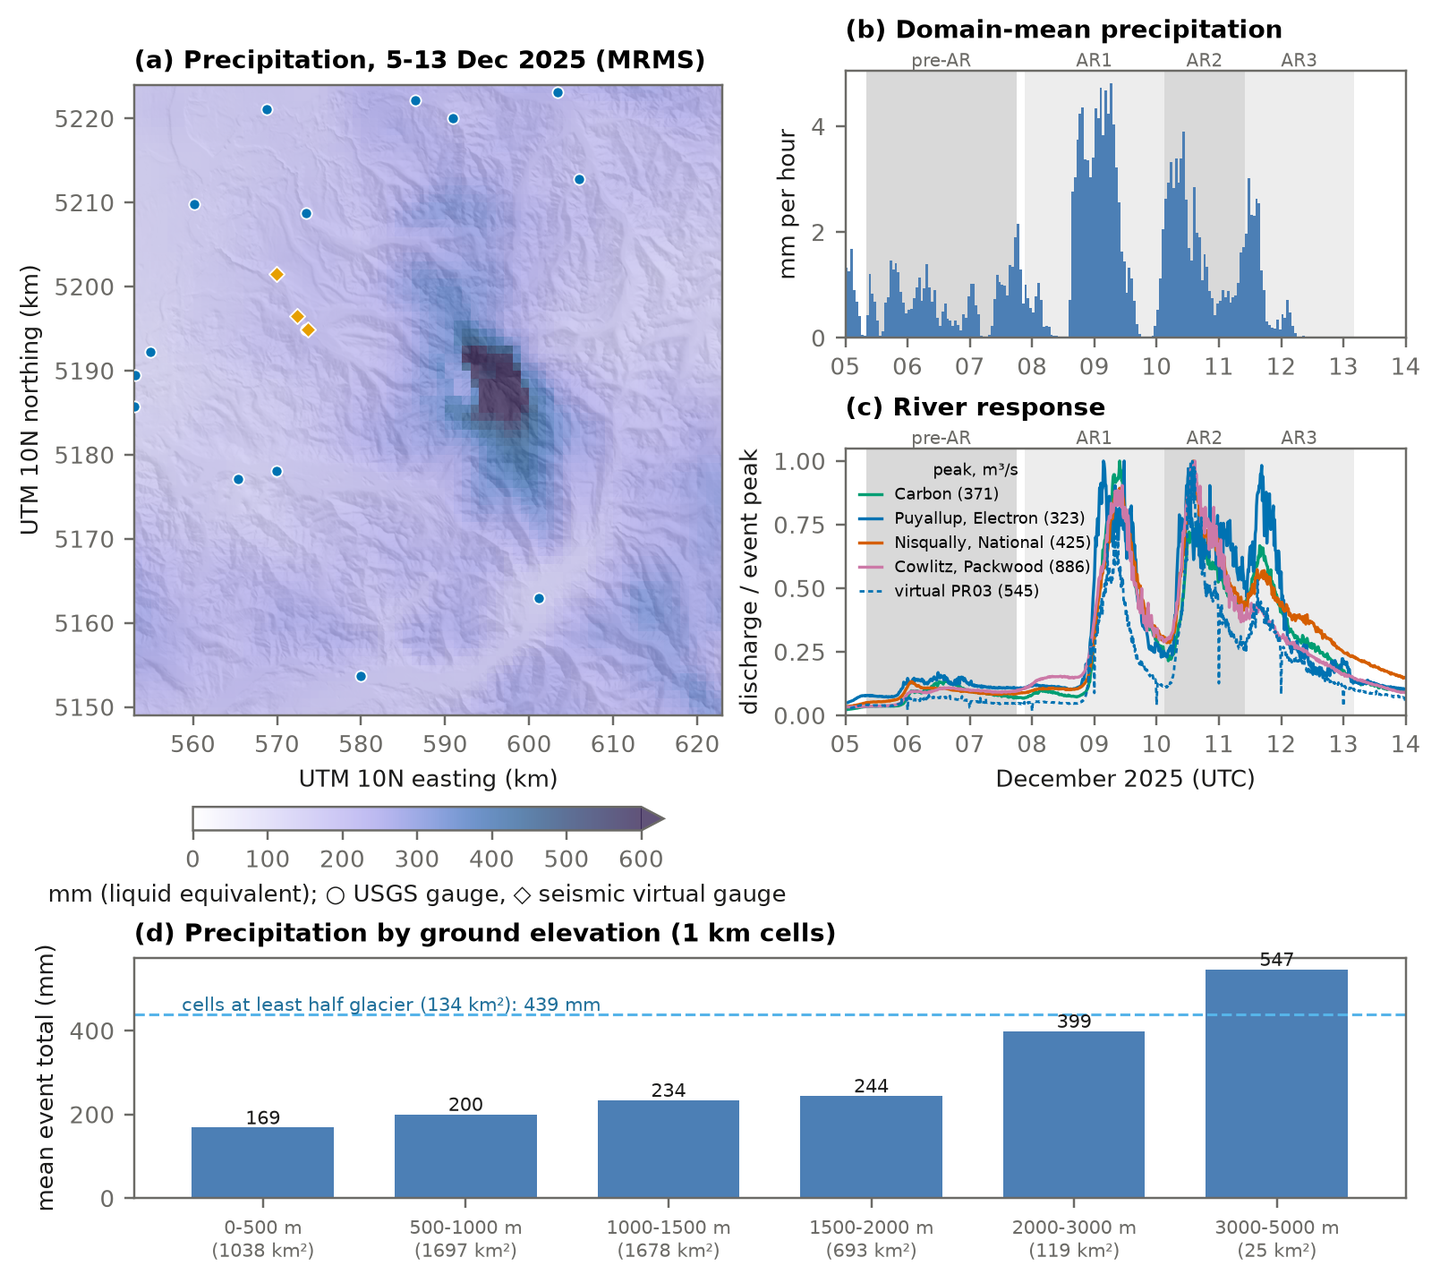
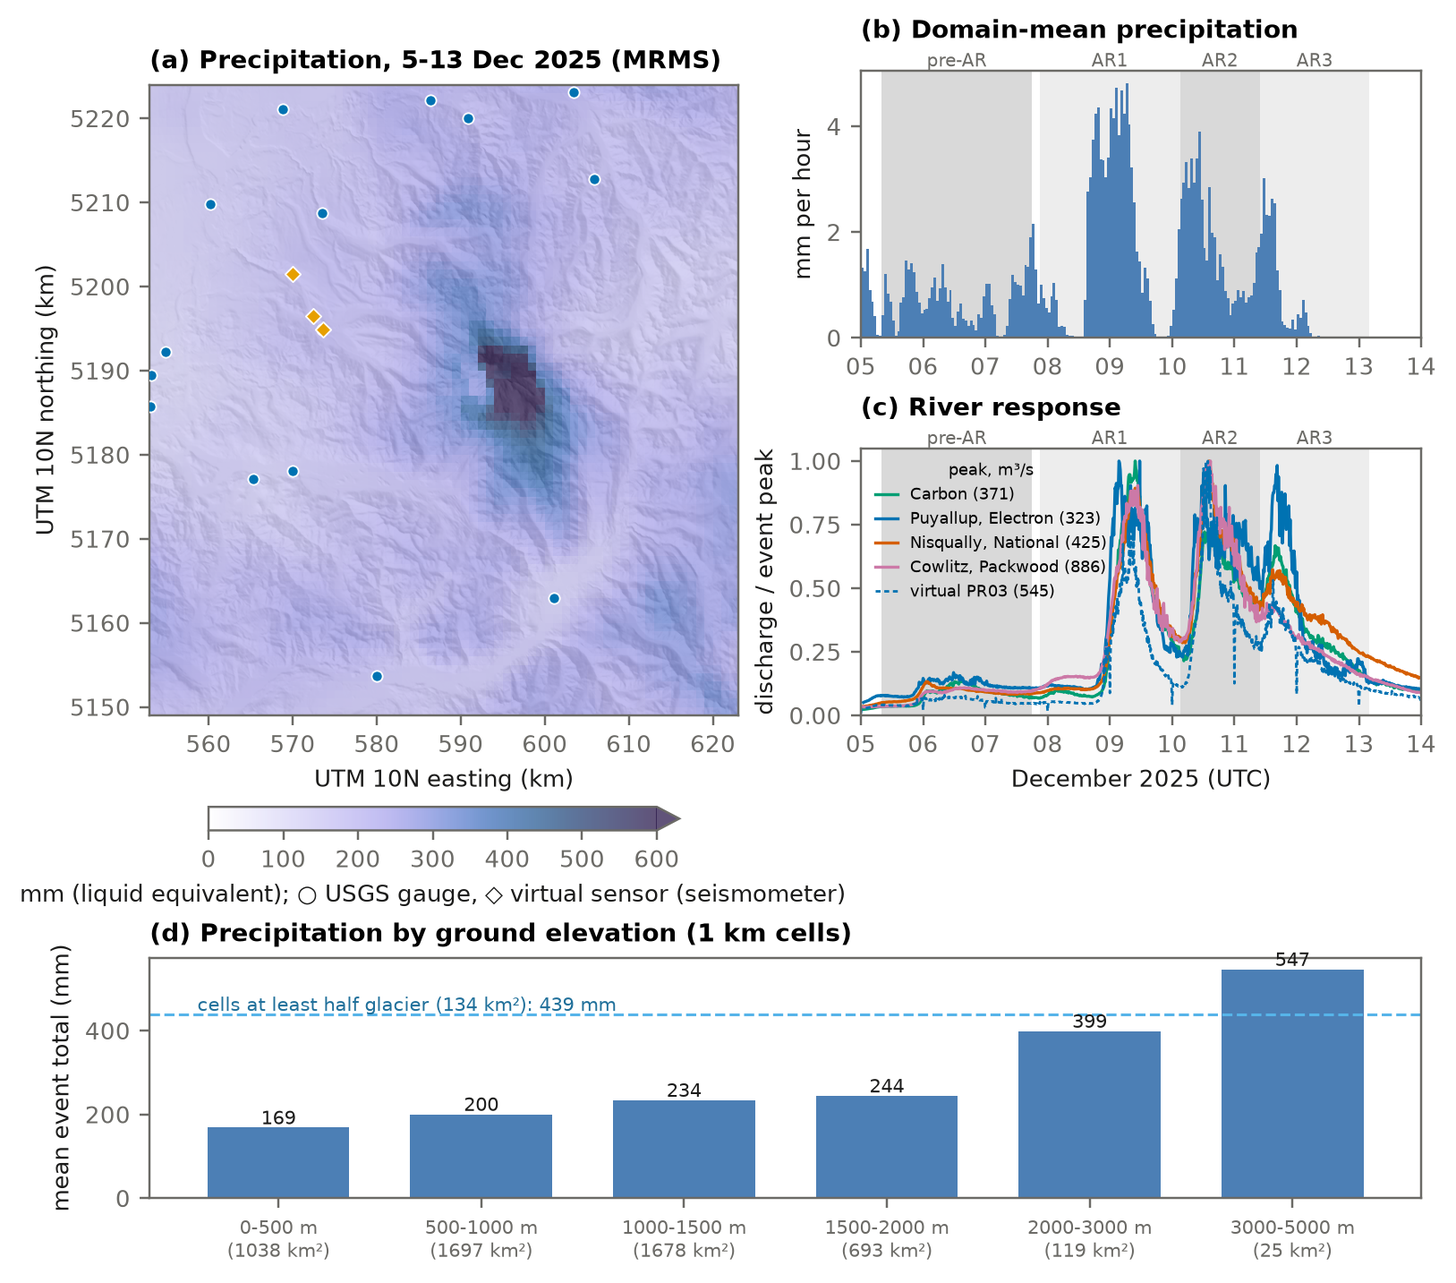
Virtual sensors: registry, viewer labels, paper term; rain drops scale with intensity; Copilot review (PR #26)
- configs/virtual_sensors.yaml + rainier3d.sensors.virtual: instruments repurposed to estimate what they were
  not designed to measure (designed for, estimates, method, skill, source, used by); CC.PR02, CC.PR03, CC.STYX
  as river gauges. S29 stops on an unregistered one; the entry goes to model/sensors.json ("virtual") and to
  each virtual site of event.json; tag_virtual_sensors(atlas) updates an existing bundle
- viewer: "V" badge on the marker, tooltip line, a Virtual sensor block on the station card, a legend row;
  Storms panel and paper say "virtual sensors" (term defined in Sect. events), fig21 legend
- rain: point-sprite streaks whose width and length grow with the MRMS rate (drizzle to 12 mm/h), sized by
  distance; docs/events.md notes drop size from seismic records as a future virtual sensor
- Copilot: colour-stretch percentiles from a byte histogram (same windows on the current bundle); the rain uses
  its own wall-clock time step; the Storms panel starts at the wettest frame or frame 0 (wettestFrame)
- tests: virtual-sensor registry, stretch vs np.percentile, wettestFrame, e2e (u)

diff --git a/web/viewer/site/src/scene/RainEvent.js b/web/viewer/site/src/scene/RainEvent.js
@@ -3,24 +3,38 @@ import * as THREE from "three";
 // One event in the scene: falling rain whose density follows the hourly MRMS rain under each drop, and a bar at
 // every river gauge whose height follows its discharge (as a fraction of its event peak). The rain frame is a
 // small R8 texture on the overview lon/lat box, the same box as the terrain, so uv = scene (x, z) / box.
+// Each drop is a point sprite drawn as a vertical streak. Its presence follows the rate under it (a drop shows when
+// its random threshold is below rate / uFull), and its width and length grow with the rate: light rain is fine
+// drizzle, an atmospheric-river hour is heavy streaks. The size is scaled by distance so near drops look larger.
+// (Rain also shakes the ground; drop sizes from seismic records of rainfall would feed uThick directly.)
 const RAIN_VERT = `
-  attribute vec2 seed; attribute float ground; attribute float tip;
-  uniform sampler2D uRain; uniform vec4 uBox; uniform float uTime, uFull, uScale, uFlat, uTop, uLen;
-  varying float vA, vTip;
+  attribute vec2 seed; attribute float ground;
+  uniform sampler2D uRain; uniform vec4 uBox; uniform float uTime, uFull, uScale, uFlat, uTop, uPx;
+  varying float vA, vThick;
   void main() {
     vec2 uv = (position.xz - uBox.xy) / uBox.zw;
     float q = texture2D(uRain, uv).r * 255.0;
     float mm = q > 254.5 ? 0.0 : q * uScale;
     float on = step(seed.y, clamp(mm / uFull, 0.0, 1.0)) * step(0.05, mm);
     float fall = fract(seed.x - uTime * 0.35);                    // 0 at the ground, 1 at the top of the column
-    float y = ground + uTop * fall + tip * uLen;
-    vec3 p = vec3(position.x, y * (1.0 - uFlat), position.z);
-    vA = on * smoothstep(0.0, 0.08, fall); vTip = tip;
-    gl_Position = on < 0.5 ? vec4(2.0, 2.0, 2.0, 1.0) : projectionMatrix * modelViewMatrix * vec4(p, 1.0);
+    vec3 p = vec3(position.x, (ground + uTop * fall) * (1.0 - uFlat), position.z);
+    vec4 mv = modelViewMatrix * vec4(p, 1.0);
+    vThick = clamp(mm / 12.0, 0.0, 1.0);                          // 0: drizzle, 1: 12 mm/h and more
+    vA = on * smoothstep(0.0, 0.08, fall);
+    gl_Position = on < 0.5 ? vec4(2.0, 2.0, 2.0, 1.0) : projectionMatrix * mv;
+    gl_PointSize = clamp(uPx * mix(3.0, 11.0, vThick) / max(-mv.z, 1.0), 2.0, 22.0);
   }`;
 const RAIN_FRAG = `
-  varying float vA, vTip;
-  void main() { gl_FragColor = vec4(0.78, 0.86, 0.96, vA * mix(0.75, 0.0, vTip)); }`;
+  varying float vA, vThick;
+  void main() {
+    vec2 c = gl_PointCoord - 0.5;                                 // y grows downward in the sprite
+    float w = mix(0.05, 0.16, vThick);                            // half-width of the streak
+    float body = 1.0 - smoothstep(w * 0.6, w, abs(c.x));
+    float len = 1.0 - smoothstep(0.35, 0.5, abs(c.y));
+    float a = vA * body * len * mix(0.35, 1.0, c.y + 0.5) * mix(0.6, 0.95, vThick);   // brighter at the head
+    if (a < 0.02) discard;
+    gl_FragColor = vec4(0.80, 0.88, 0.97, a);
+  }`;
 
 export class RainEvent {
   constructor(rs, event, { drops = 24000 } = {}) {
@@ -31,23 +45,21 @@ export class RainEvent {
     this.U = {
       uRain: { value: this.tex }, uBox: { value: new THREE.Vector4(m.x0, m.z0, m.cols * m.dx, m.rows * m.dz) },
       uTime: { value: 0 }, uFull: { value: 8.0 }, uScale: { value: this.doc.rain.scale }, uFlat: rs.U.flat,
-      uTop: { value: 2.5 }, uLen: { value: 0.12 },
+      uTop: { value: 2.5 }, uPx: { value: 40 * Math.min(devicePixelRatio || 1, 2) },
     };
-    // drops at random places on the terrain box; each is a short segment (tip 0 at the bottom, 1 at the top)
-    const pos = [], seed = [], ground = [], tip = [];
+    // drops at random places on the terrain box
+    const pos = [], seed = [], ground = [];
     let rnd = 12345; const rand = () => ((rnd = (rnd * 1103515245 + 12345) % 2147483648) / 2147483648);
     for (let i = 0; i < drops; i++) {
       const x = m.x0 + rand() * m.cols * m.dx, z = m.z0 + rand() * m.rows * m.dz, g = rs.elevKm(x, z);
       if (g == null) continue;
-      const s0 = rand(), s1 = rand();
-      for (const t of [0, 1]) { pos.push(x, 0, z); seed.push(s0, s1); ground.push(g); tip.push(t); }
+      pos.push(x, 0, z); seed.push(rand(), rand()); ground.push(g);
     }
     const geo = new THREE.BufferGeometry();
     geo.setAttribute("position", new THREE.Float32BufferAttribute(pos, 3));
     geo.setAttribute("seed", new THREE.Float32BufferAttribute(seed, 2));
     geo.setAttribute("ground", new THREE.Float32BufferAttribute(ground, 1));
-    geo.setAttribute("tip", new THREE.Float32BufferAttribute(tip, 1));
-    this.rain = new THREE.LineSegments(geo, new THREE.ShaderMaterial({
+    this.rain = new THREE.Points(geo, new THREE.ShaderMaterial({
       uniforms: this.U, vertexShader: RAIN_VERT, fragmentShader: RAIN_FRAG, transparent: true, depthWrite: false,
     }));
     this.rain.frustumCulled = false; this.rain.renderOrder = 5; this.rain.visible = false;
@@ -86,7 +98,11 @@ export class RainEvent {
 
   hide() { this.rain.visible = false; this.bars.visible = false; }
 
+  // dt (s) is measured here unless given, so the rain falls at the same speed at any frame rate
   update(dt) {
+    const now = performance.now();
+    if (dt == null) dt = this._last == null ? 0 : Math.min((now - this._last) / 1000, 0.1);
+    this._last = now;
     this.U.uTime.value += dt;
     const flat = 1 - this.rs.U.flat.value;
     for (const b of this.bars.children) b.position.y = (this.rs.elevKm(b.position.x, b.position.z) ?? 0) * flat;

diff --git a/web/viewer/site/src/App.jsx b/web/viewer/site/src/App.jsx
@@ -78,7 +78,8 @@ function Atlas({ bundle, onError }) {
         if (!inv || cancelled) return;
         const extras = extraSites(inv, bundle.stations);
         s.sensors = new SensorPoints(s, extras, inv.das); s.sensors.setFilter(DEFAULT_FILTER);
-        setSens({ all: [...bundle.stations.sites.filter(x => x.onMap).map(classifyMarker), ...extras], das: inv.das, points: s.sensors, notes: inv.notes ?? {} });
+        setSens({ all: [...bundle.stations.sites.filter(x => x.onMap).map(classifyMarker), ...extras], das: inv.das, points: s.sensors, notes: inv.notes ?? {}, virtual: inv.virtual ?? {} });
+        layer.setVirtual(inv.virtual ?? {});
       });
       if (bundle.model) loadMassEvents(bundle.base).then(doc => {
         if (!doc || cancelled) return;
@@ -103,7 +104,7 @@ function Atlas({ bundle, onError }) {
       s.onFrame = () => {
         layer.update();
         s.volume?.update();
-        s.event?.update(1 / 60);
+        s.event?.update();
         s.layers?.update((x, y, z) => s.project(x, y, z), s.camera.position.toArray(), (x, z) => s.elevKm(x, z) ?? -1e9);
         if (n++ % 15 === 0) setDetail(detailText(s.frame, bundle.summit));
       };
@@ -124,7 +125,7 @@ function Atlas({ bundle, onError }) {
     setSfilter(f); sens?.points.setFilter(f);
     layerRef.current?.setFilter(x => passes(classifyMarker(x), f));
   };
-  const sensorLegend = sens && { filter: sfilter, onFilter: applyFilter, counts: kindCounts(sens.all, sfilter), das: sens.das };
+  const sensorLegend = sens && { filter: sfilter, onFilter: applyFilter, counts: kindCounts(sens.all, sfilter), das: sens.das, virtual: sens.virtual };
   const modelLayer = modelKey ? bundle.model.byKey[modelKey] : null;
   const flowLayer = bundle.model?.byKey.mass_flows;
   const showFlows = on => {   // the flow deposits are a draped model layer: the same slot as the layer menu
@@ -174,13 +175,13 @@ function Atlas({ bundle, onError }) {
           ]} />
           <GoTo majors={bundle.majors} active={active} onPlace={k => { setActive(k); scene.flyTo(k); }} onSite={s => openSite(s, scene)} />
           {modelLayer?.values && <ModelReadout scene={scene} model={bundle.model} layer={modelLayer} box={bundle.overviewBox} />}
-          <Tooltip hover={hover} notes={sens?.notes} />
+          <Tooltip hover={hover} notes={sens?.notes} virtual={sens?.virtual} />
           {sens && <SensorTip scene={scene} points={sens.points} />}
           {mass && <MassTip scene={scene} points={mass.points} doc={mass.doc} />}
           <MobileDock sheet={sheet} onSheet={setSheet} has={{ model: !!bundle.model, quakes: !!(bundle.quakes || reloc), mass: !!massLegend, events: !!event }} />
           <NavPad scene={scene} onHelp={openHelp} />
           <HelpHint onHelp={openHelp} hidden={helpOpened} />
-          {site && <StationPanel site={site} bundle={bundle} notes={sens?.notes} onFly={s => scene.flyToSite(s)}
+          {site && <StationPanel site={site} bundle={bundle} notes={sens?.notes} virtual={sens?.virtual} onFly={s => scene.flyToSite(s)}
             onClose={() => { setSiteId(null); layerRef.current?.setSelected(null); }} />}
         </>
       )}

diff --git a/web/viewer/site/src/ui/EventsPanel.jsx b/web/viewer/site/src/ui/EventsPanel.jsx
@@ -1,5 +1,5 @@
 import { useEffect, useMemo, useState } from "react";
-import { frameTime, timeLabels, windowAt } from "../data/events.js";
+import { frameTime, timeLabels, wettestFrame, windowAt } from "../data/events.js";
 import "./ui.css";
 
 const W = 232, H = 46;
@@ -30,10 +30,10 @@ function Series({ values, k, kind, windows, doc, label, unit }) {
 // `active`: its dock panel or phone sheet is open; panels stay mounted while closed, so the rain and bars follow it.
 export default function EventsPanel({ event, active = true }) {
   const { doc } = event;
-  const [k, setK] = useState(() => doc.rain.domainMean.indexOf(Math.max(...doc.rain.domainMean.filter(v => v != null))));
+  const [k, setK] = useState(() => Math.min(wettestFrame(doc.rain.domainMean), event.count - 1));
   const [play, setPlay] = useState(false), [rain, setRain] = useState(true), [gauges, setGauges] = useState(true);
   const sites = useMemo(() => [...doc.gauges, ...doc.virtual].sort((a, b) => b.peak.q - a.peak.q), [doc]);
-  const [sel, setSel] = useState(() => (doc.gauges.find(g => g.onMap) ?? sites[0])?.id);
+  const [sel, setSel] = useState(() => (doc.gauges.find(g => g.onMap) ?? sites[0])?.id ?? null);
   useEffect(() => { event.setFrame(k); }, [event, k]);
   useEffect(() => {
     if (active) event.show({ rain, gauges }); else event.hide();
@@ -66,14 +66,14 @@ export default function EventsPanel({ event, active = true }) {
       <div className="ev-sites" role="list">
         {sites.map(s => (
           <button key={s.id} role="listitem" className={`ev-site${s.id === sel ? " on" : ""}`} onClick={() => setSel(s.id)}
-            title={s.kind === "virtual" ? `seismic virtual gauge, NSE log Q ${s.nse}` : `USGS ${s.id}${s.recordEnds ? `, record ends ${s.recordEnds}` : ""}${s.onMap ? "" : ", off the map"}`}>
+            title={s.kind === "virtual" ? `virtual sensor: seismometer read as a river gauge, NSE log Q ${s.nse}` : `USGS ${s.id}${s.recordEnds ? `, record ends ${s.recordEnds}` : ""}${s.onMap ? "" : ", off the map"}`}>
             <span className={`ev-dot ${s.kind}`} /><span className="ev-name">{s.name}{s.recordEnds ? " †" : ""}</span>
             <span className="mono">{s.q[k] == null ? "–" : Math.round(s.q[k])}</span><span className="mono ev-peak">{Math.round(s.peak.q)}</span>
           </button>
         ))}
       </div>
       <div className="msrc">
-        m³/s now and at the event peak; † the record stops during the event. Blue: USGS gauges; amber: seismic virtual gauges (rating inverted from river
+        m³/s now and at the event peak; † the record stops during the event. Blue: USGS gauges; amber: virtual sensors, seismometers repurposed as river gauges (rating inverted from river
         noise, seis-hydro-2-sed). Precipitation is the MRMS liquid equivalent: rain and snow are not separated. Shaded: the pre-AR storm and three atmospheric-river pulses. {doc.note}{" "}
         Sources: {Object.entries(doc.sources).map(([key, s], i) => <span key={key}>{i ? ", " : ""}<a href={s.link} target="_blank" rel="noreferrer">{key}</a></span>)}.
       </div>

diff --git a/web/viewer/site/src/ui/StationPanel.jsx b/web/viewer/site/src/ui/StationPanel.jsx
@@ -21,7 +21,7 @@ export function links(st, now = new Date()) {
   return out;
 }
 
-export default function StationPanel({ site, bundle, onClose, onFly, notes = {} }) {
+export default function StationPanel({ site, bundle, onClose, onFly, notes = {}, virtual = {} }) {
   return (
     <aside className="panel station-panel" id="panel" aria-label={`${site.name} station details`}>
       <div className="sp-head">
@@ -40,6 +40,17 @@ export default function StationPanel({ site, bundle, onClose, onFly, notes = {} 
           <div className="sp-meta">Running since {st.since.slice(0, 4)} · {fmtElev(st.elev)}{st.depth > 1 ? ` · sensor ${Math.round(st.depth)} m below the surface` : ""}</div>
           <ul className="sp-inst">{st.instruments.map(i => <li key={i.channels.join()}>{instrumentLine(i)}</li>)}</ul>
           {notes[st.code] && <p className="sp-note sp-stnote">{notes[st.code]}</p>}
+          {(virtual[st.code] ?? []).map((u, i) => (
+            <div key={i} className="sp-virtual" aria-label="Virtual sensor">
+              <div className="vhead"><span className="vtag">Virtual sensor</span> repurposed to estimate {u.estimates}</div>
+              <dl>
+                <dt>Designed for</dt><dd>{u.designed_for}</dd>
+                <dt>Method</dt><dd>{u.method}</dd>
+                <dt>Skill</dt><dd>{u.skill}</dd>
+                <dt>Used by</dt><dd>{u.used_by} · source {u.source}</dd>
+              </dl>
+            </div>
+          ))}
           <ul className="sp-links">{links(st).map(l => <li key={l.label}><a href={l.url} target="_blank" rel="noreferrer">{l.label}</a></li>)}</ul>
         </section>
       ))}

diff --git a/web/viewer/site/src/ui/SensorFilter.jsx b/web/viewer/site/src/ui/SensorFilter.jsx
@@ -5,7 +5,7 @@ import "./ui.css";
 // The sensor legend doubles as the filter: networks (permanent / temporary), past deployments, and one toggle per
 // instrument kind with its count under the current network filter. Clicking a kind shows only that kind; clicking
 // it again shows all.
-export default function SensorFilter({ filter, onFilter, counts, das }) {
+export default function SensorFilter({ filter, onFilter, counts, das, virtual = {} }) {
   const set = patch => onFilter({ ...filter, ...patch });
   const only = key => set({ kinds: filter.kinds?.size === 1 && filter.kinds.has(key) ? null : new Set([key]) });
   const on = key => !filter.kinds || filter.kinds.has(key);
@@ -30,6 +30,13 @@ export default function SensorFilter({ filter, onFilter, counts, das }) {
           </button>
         )}
       </div>
+      {Object.keys(virtual).length > 0 && (
+        <div className="sf-virtual">
+          <span className="vbadge-key" aria-hidden="true">V</span>
+          <div><b>Virtual sensors ({Object.keys(virtual).length})</b>: instruments repurposed to estimate what they were not designed to
+            measure. {Object.entries(virtual).map(([c, uses]) => `${c.split(".")[1]}: ${uses.map(u => u.estimates.split(" (")[0]).join(", ")}`).join("; ")}.</div>
+        </div>
+      )}
     </div>
   );
 }

diff --git a/web/viewer/site/src/ui/ui.css b/web/viewer/site/src/ui/ui.css
@@ -230,3 +230,14 @@ input[type=range]:disabled { opacity: 0.35; }
 .ev-dot { width: 8px; height: 8px; border-radius: 4px; background: #4c9be8; }
 .ev-dot.virtual { background: #e8a33d; }
 .events-panel a, .msrc a { color: #9cc4ee; }
+
+/* virtual sensors: instruments repurposed to estimate what they were not designed to measure */
+.vtag { display: inline-block; padding: 0 5px; border-radius: 3px; background: #e8a33d; color: #121211; font-size: 10px; font-weight: 600; letter-spacing: 0.02em; }
+.t-virtual { margin-top: 4px; font-size: 11px; color: var(--text-secondary); }
+.sp-virtual { margin: 8px 0; padding: 8px 10px; border: 1px solid rgba(232, 163, 61, 0.55); border-radius: 6px; font-size: 12px; color: var(--text-secondary); }
+.sp-virtual .vhead { color: var(--text-primary); margin-bottom: 4px; }
+.sp-virtual dl { display: grid; grid-template-columns: 84px 1fr; gap: 2px 8px; margin: 0; }
+.sp-virtual dt { color: var(--text-muted); }
+.sp-virtual dd { margin: 0; }
+.sf-virtual { display: flex; gap: 8px; align-items: flex-start; margin-top: 8px; font-size: 11px; line-height: 1.45; color: var(--text-secondary); }
+.vbadge-key { flex: none; width: 14px; height: 14px; border-radius: 7px; background: #e8a33d; color: #121211; font: 600 9px/14px var(--font-sans); text-align: center; }

diff --git a/web/viewer/site/src/ui/Tooltip.jsx b/web/viewer/site/src/ui/Tooltip.jsx
@@ -5,7 +5,7 @@ import Glyph from "./Glyph.jsx";
 import { operators } from "./instruments.js";
 import "./ui.css";
 
-export default function Tooltip({ hover, notes = {} }) {
+export default function Tooltip({ hover, notes = {}, virtual = {} }) {
   const ref = useRef(null);
   useLayoutEffect(() => {
     const el = ref.current;
@@ -22,6 +22,9 @@ export default function Tooltip({ hover, notes = {} }) {
       <div className="t-list">{site.kinds.map(k => <div key={k} className="t-item"><Glyph glyph={KIND_BY_KEY[k].glyph} color={KIND_BY_KEY[k].color} /><span>{KIND_BY_KEY[k].label}</span></div>)}</div>
       {site.major && <div className="t-more">{site.major}</div>}
       {site.codes.filter(c => notes[c]).map(c => <div key={c} className="t-more">{c}: {notes[c].split(":")[0]}</div>)}
+      {site.codes.filter(c => virtual[c]).map(c => (
+        <div key={`v${c}`} className="t-virtual"><span className="vtag">Virtual sensor</span> {c} estimates {virtual[c].map(u => u.estimates).join("; ")}</div>
+      ))}
     </div>
   );
 }

diff --git a/web/viewer/site/src/data/events.test.js b/web/viewer/site/src/data/events.test.js
@@ -1,5 +1,5 @@
 import { describe, expect, it } from "vitest";
-import { frameTime, rainAt, timeLabels, windowAt } from "./events.js";
+import { frameTime, rainAt, timeLabels, wettestFrame, windowAt } from "./events.js";
 
 const doc = {
   frames: { start: "2025-12-05T01:00Z", stepHours: 1, count: 3 },
@@ -22,6 +22,12 @@ describe("events", () => {
     expect(rainAt(doc, frames, 1, -121.1, 46.1)).toBe(3);      // south-east: 12 x 0.25
     expect(rainAt(doc, frames, 1, -121.9, 46.1)).toBeNull();   // 255
     expect(rainAt(doc, frames, 1, -123, 46.5)).toBeNull();
+  });
+  it("starts at the wettest frame, or frame 0 without data", () => {
+    expect(wettestFrame([0.1, null, 3, 2])).toBe(2);
+    expect(wettestFrame([])).toBe(0);
+    expect(wettestFrame([null, null])).toBe(0);
+    expect(wettestFrame(undefined)).toBe(0);
   });
   it("labels UTC and Pacific standard time", () => {
     expect(timeLabels(new Date("2025-12-09T12:00:00Z"))).toEqual({ utc: "2025-12-09 12:00 UTC", pst: "12-09 04:00 PST" });

diff --git a/web/viewer/site/e2e/atlas.spec.js b/web/viewer/site/e2e/atlas.spec.js
@@ -277,3 +277,13 @@ test("(t) Vp, Vs and density colours saturate at the 2nd and 98th percentiles", 
   await expect(page.locator(".model-panel .ramp-labels")).toContainText("≤");
   await expect(page.locator(".model-panel .ramp-labels")).toContainText("≥");
 });
+
+test("(u) virtual sensors are labelled: marker badge, legend and station card", async ({ page }) => {
+  await page.waitForFunction(() => !!window.__rainier.sensors, null, { timeout: 30_000 });
+  await expect(page.locator('.station.virtual[data-id="CC.PR03"] .vbadge')).toHaveCount(1);
+  await dock(page, "Sensors");
+  await expect(page.locator(".sf-virtual")).toContainText("Virtual sensors (3)");
+  await page.locator('.station[data-id="CC.PR03"]').click({ force: true });
+  await expect(page.locator(".sp-virtual")).toContainText("river discharge");
+  await expect(page.locator(".sp-virtual")).toContainText("Nash-Sutcliffe");
+});

diff --git a/web/viewer/site/src/overlay/StationLayer.js b/web/viewer/site/src/overlay/StationLayer.js
@@ -26,6 +26,16 @@ export class StationLayer {
   setVisible(on) { this.hiddenAll = !on; }
   setFilter(pred) { this.pred = pred; }   // (site) => boolean, from the sensor legend
 
+  // virtual sensors (configs/virtual_sensors.yaml): a "V" badge on the marker of every site holding one
+  setVirtual(virtual = {}) {
+    for (const it of this.items) {
+      const on = it.site.codes.some(c => virtual[c]);
+      it.d.classList.toggle("virtual", on);
+      if (on && !it.d.querySelector(".vbadge")) it.d.insertAdjacentHTML("beforeend", '<span class="vbadge" aria-hidden="true">V</span>');
+      if (on) it.d.setAttribute("aria-label", `${it.site.name}, ${it.site.codes.join(", ")}, virtual sensor`);
+    }
+  }
+
   setSelected(id) { for (const it of this.items) it.d.classList.toggle("selected", it.site.id === id); }
 
   update() {

diff --git a/web/viewer/site/src/overlay/overlay.css b/web/viewer/site/src/overlay/overlay.css
@@ -6,3 +6,6 @@
 .station.major .name { font-weight: 500; }
 .station:focus-visible { outline: none; }
 .station:focus-visible svg { outline: 1px dashed var(--text-primary); outline-offset: 3px; border-radius: 50%; }
+
+/* virtual sensor badge on a station marker (configs/virtual_sensors.yaml) */
+.station .vbadge { position: absolute; left: -4px; top: -4px; width: 12px; height: 12px; border-radius: 6px; background: #e8a33d; color: #121211; font: 600 8px/12px "IBM Plex Sans", system-ui, sans-serif; text-align: center; pointer-events: none; box-shadow: 0 0 0 1px #121211; }

diff --git a/web/viewer/site/src/data/events.js b/web/viewer/site/src/data/events.js
@@ -41,3 +41,10 @@ export function timeLabels(t) {
   const pst = new Date(t.getTime() - 8 * 3600e3).toISOString().slice(5, 16).replace("T", " ") + " PST";
   return { utc, pst };
 }
+
+// the frame with the most domain-mean precipitation; 0 when there is none (empty or all null)
+export function wettestFrame(values) {
+  let best = 0, max = -Infinity;
+  (values ?? []).forEach((v, i) => { if (v != null && v > max) { max = v; best = i; } });
+  return best;
+}
